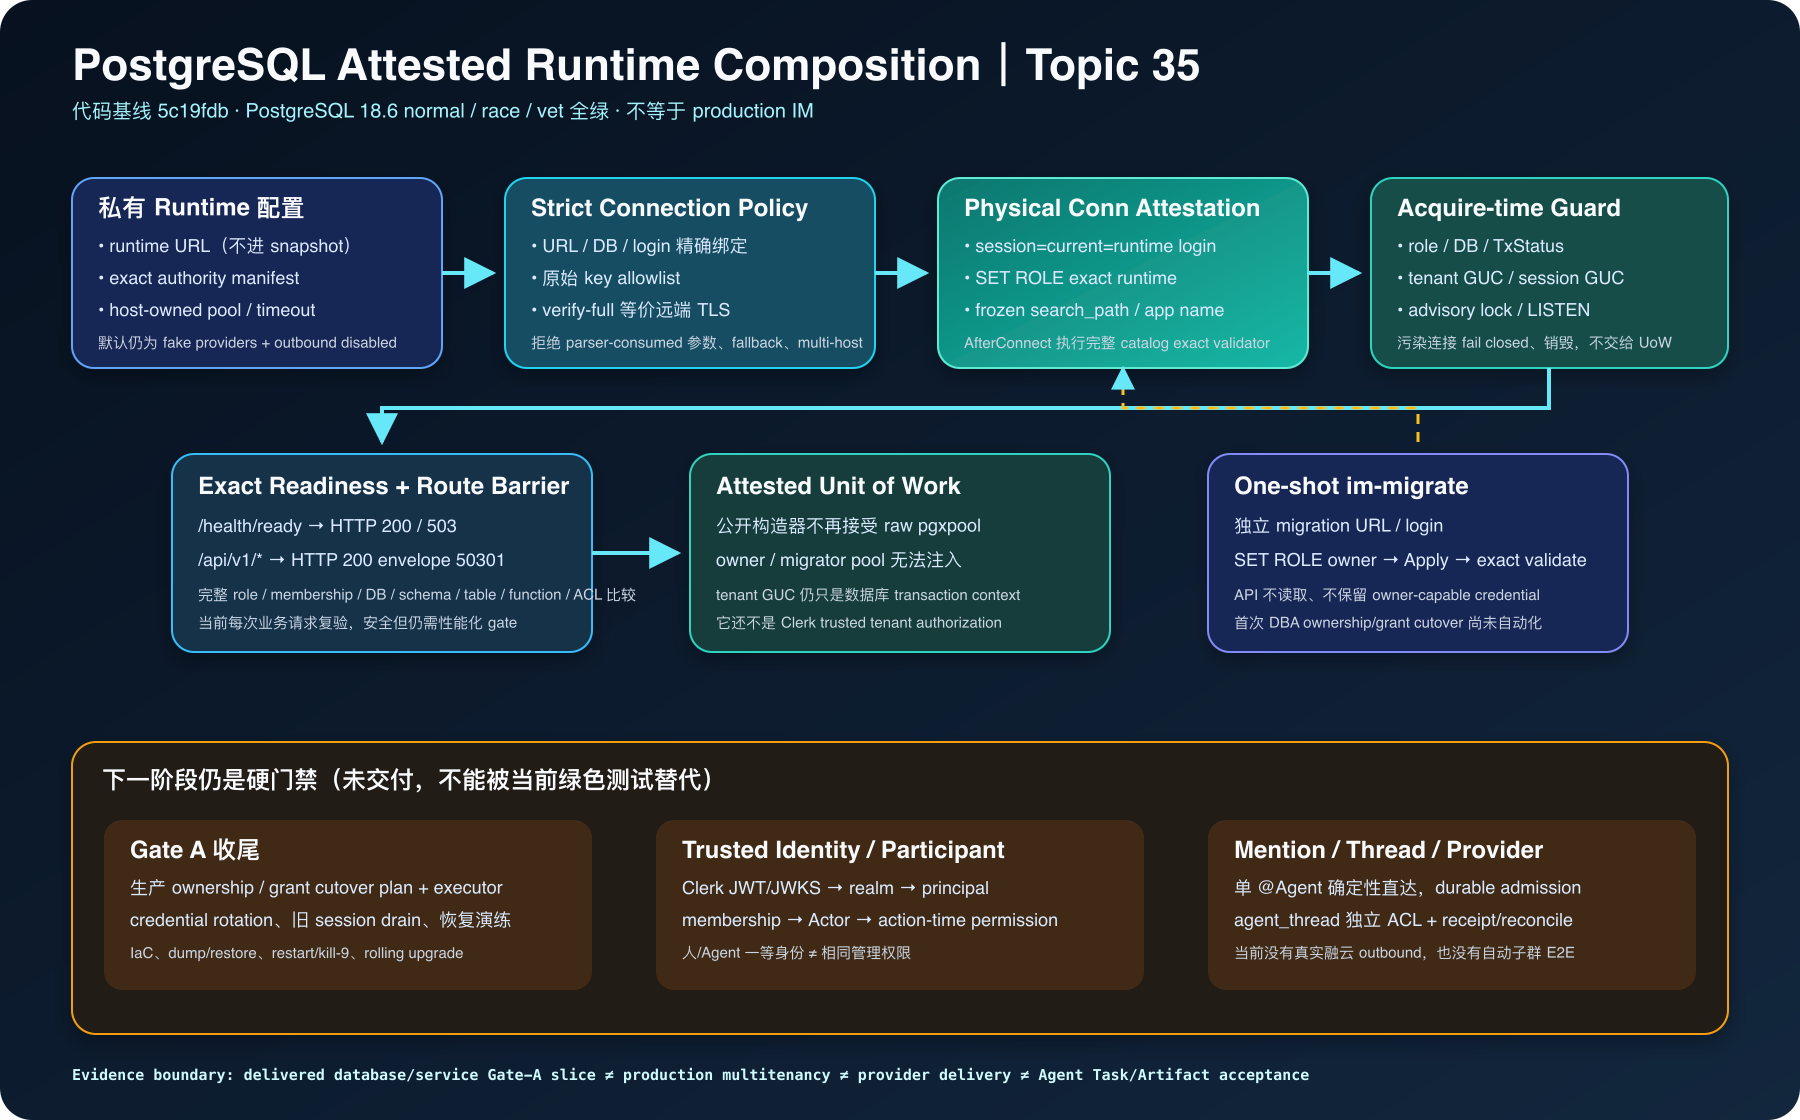
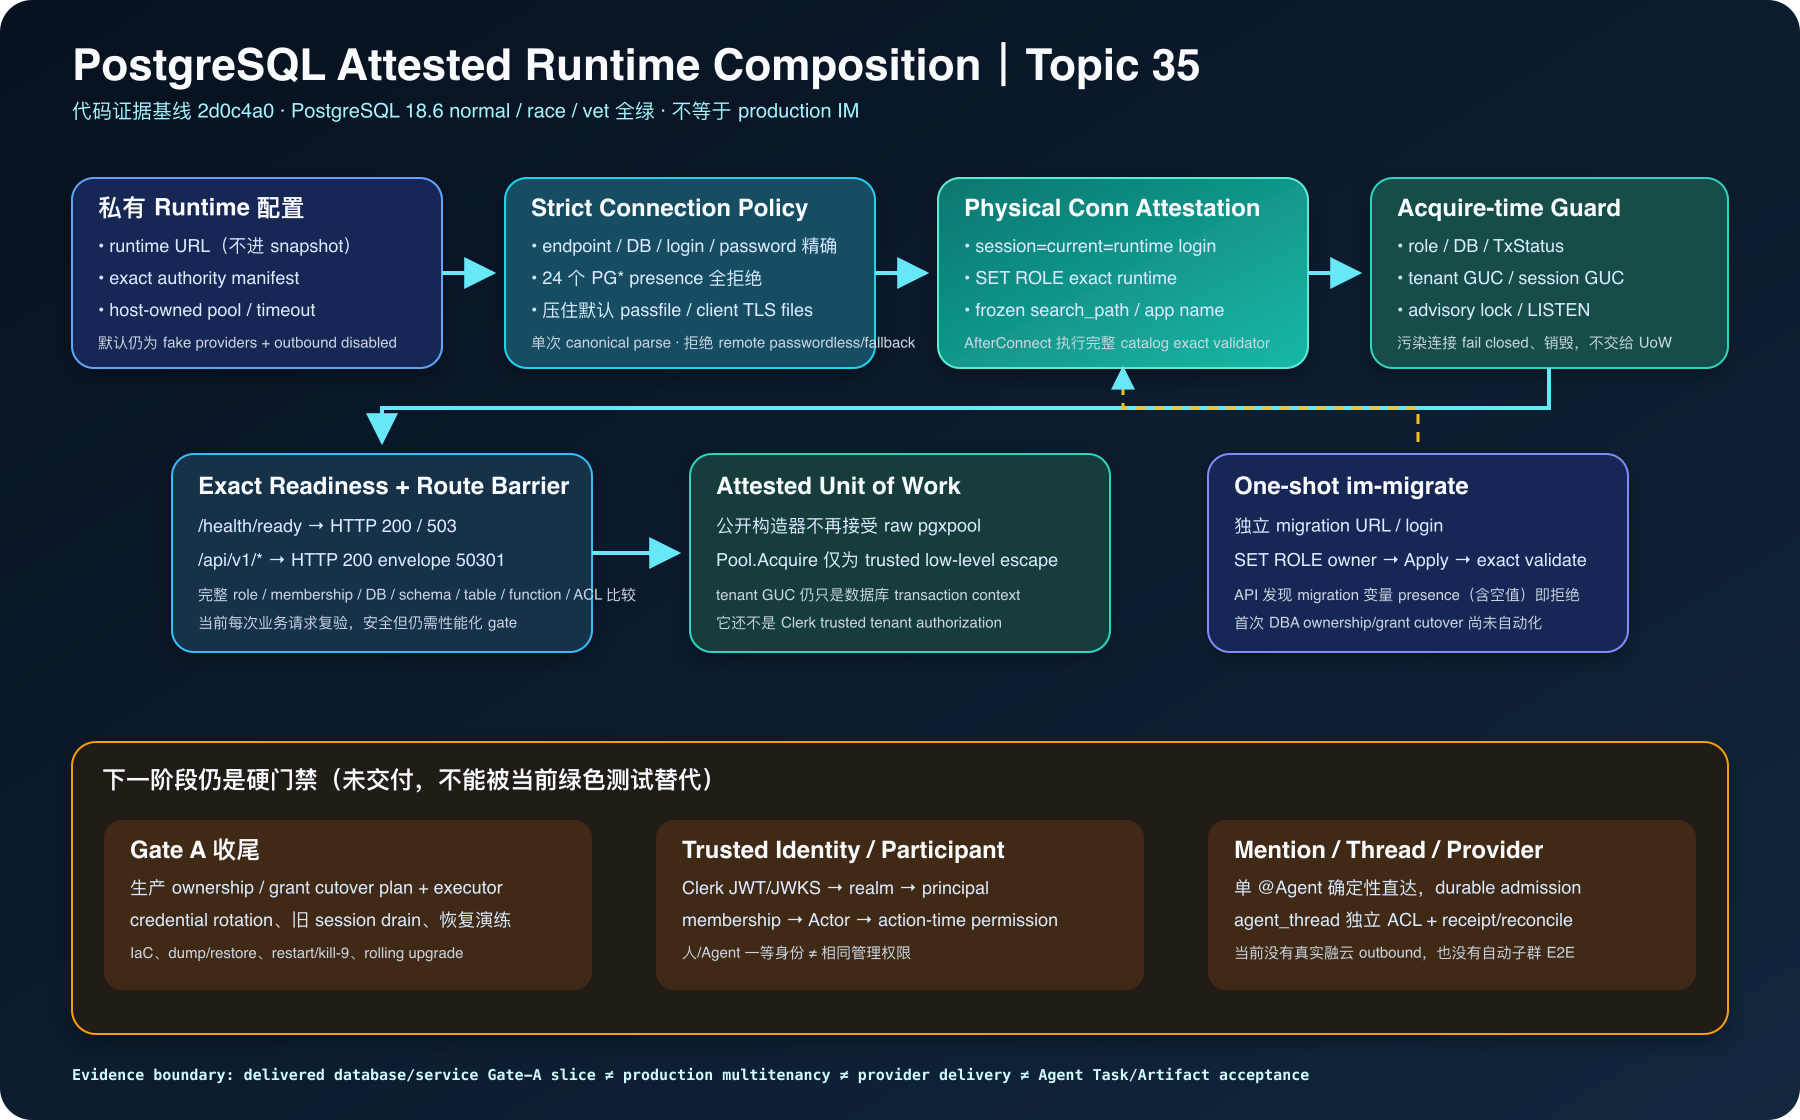
docs(evidence): refresh Topic 35 security map

diff --git a/analysis_report/screenshots/README.md b/analysis_report/screenshots/README.md
@@ -89,8 +89,8 @@
 | [`33_postgres_authority_persistence_map.png`](33_postgres_authority_persistence_map.png) | 1600×1000 | 不适用 / 2026-08-28 14:13:43 +08:00 | `B-local-derived-documentation-visual`；由同名 SVG 用 rsvg 1600×1000 确定性渲染，便于 Notion 审阅 | `08f6d1a3a7ce` |
 | [`34_postgres_function_only_writes_and_exact_access_map.svg`](34_postgres_function_only_writes_and_exact_access_map.svg) | 1600×1100 | 不适用 / 2026-08-28 18:21:07 +08:00 | `B-local-derived-documentation-visual`；一级调研→五函数写面→exact access→PG18.6 故障证据→剩余生产 gate 源图 | `d2b715afaa88` |
 | [`34_postgres_function_only_writes_and_exact_access_map.png`](34_postgres_function_only_writes_and_exact_access_map.png) | 1600×1100 | 不适用 / 2026-08-28 18:21:07 +08:00 | `B-local-derived-documentation-visual`；由同名 SVG 用 rsvg 1600×1100 确定性渲染，便于 Notion 审阅 | `586c3b5edebf` |
-| [`35_postgres_attested_runtime_composition_map.svg`](35_postgres_attested_runtime_composition_map.svg) | 1800×1120 | 不适用 / 2026-08-28 20:29:18 +08:00 | `B-local-derived-documentation-visual`；private config→strict connection policy→physical/session attestation→readiness/UoW/API gate→剩余 P0 源图 | `7f9e5dda9195` |
-| [`35_postgres_attested_runtime_composition_map.png`](35_postgres_attested_runtime_composition_map.png) | 1800×1120 | 不适用 / 2026-08-28 20:29:18 +08:00 | `B-local-derived-documentation-visual`；由同名 SVG 用 rsvg 1800×1120 确定性渲染，便于 Notion 审阅 | `d9236f96a13f` |
+| [`35_postgres_attested_runtime_composition_map.svg`](35_postgres_attested_runtime_composition_map.svg) | 1800×1120 | 不适用 / 2026-08-28 20:29:18 +08:00 | `B-local-derived-documentation-visual`；private config→ambient/default-file/raw-DSN hardening→physical/session attestation→readiness/UoW/API gate→剩余 P0 源图 | `22d75a40ee97` |
+| [`35_postgres_attested_runtime_composition_map.png`](35_postgres_attested_runtime_composition_map.png) | 1800×1120 | 不适用 / 2026-08-28 20:29:18 +08:00 | `B-local-derived-documentation-visual`；由同名 SVG 用 rsvg 1800×1120 确定性渲染，便于 Notion 审阅 | `9b5d200df3c0` |
 
 完整 hash、字节数、媒体类型、尺寸、完整 URL/本地来源、逐图限制和日期证据见
 [`manifest.json`](manifest.json)。任何图像内容改变都必须生成新 hash，并说明是受限原件
